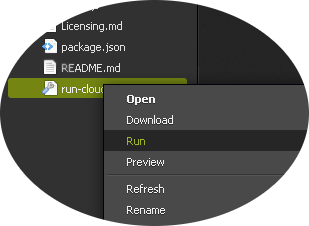
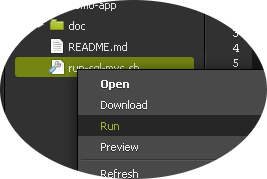
updated run filename

diff --git a/README.md b/README.md
@@ -14,7 +14,8 @@ Once Could 9 has loaded right click on "run-cloud9.sh" in the file tree and say 
 
 As it runs, installer will prompt a few times, just press enter.
 
-Once done, it will show you the instructions to open the URL in a new browser window.
+Once done, on the menu click preview ... preview with webserver, or follow the
+instructions to open the URL in a new browser window.
 To get the application URL, click on "Share" on the top right.
 
 ![Click share](https://github.com/quale-quest/sql-mvc-c9/blob/master/doc/c9/c9_share_1.png "Click share")
@@ -27,6 +28,8 @@ And note the application URL in the dialogue box:
 
 Now you will see the application run - exactly the same as the sql-mvc.com site.
 
+**note for size constrained screens the green strawberry acts as a menu activator**
+
 To play around, go to the directory tree, navigate to demo-app/Quale/Standard/Home/Guest/MainMenu/02_demos/10_todo_mvc.quicc
 
 ![and Edit](https://github.com/quale-quest/sql-mvc-c9/blob/master/doc/c9/c9_edit_1.png "Edit")
@@ -35,8 +38,8 @@ edit this file, and after the **<#view** line add
 
 > warning this is just the start
 
-then save with *ctrl-s*, you will notice the file compiling and your web browser 
-will reload the page with the change automatically.
+then save with *ctrl-s*, within a few seconds you will notice the file compiling in the console
+and then your web browser will automatically reload the page with the change.
 
 Now follow the tutorials on writing a basic application
  at : [Github - Tutorial_basic_1](https://github.com/quale-quest/sql-mvc/blob/master/doc/Tutorial_basic_1.md)
